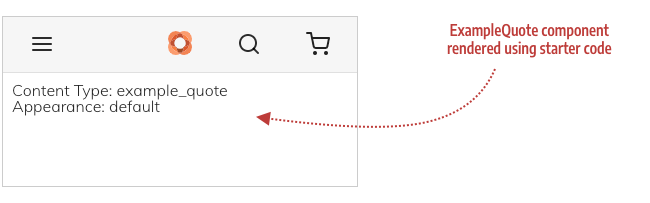
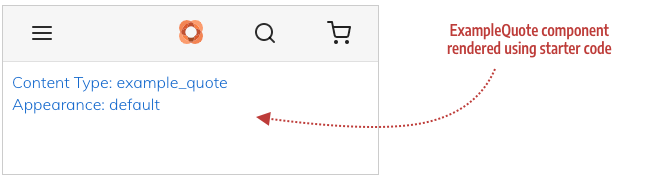
PB-36: [Docs] Creating custom Page Builder components
Changes to top nav and various diagrams and component alphabetizing

diff --git a/packages/venia-ui/lib/components/RichContent/PageBuilder/ContentTypes/ExampleQuote/exampleQuote.css b/packages/venia-ui/lib/components/RichContent/PageBuilder/ContentTypes/ExampleQuote/exampleQuote.css
@@ -1,3 +1,9 @@
+.testClass {
+    line-height: 1.4em;
+    font-size: 1em;
+    color: #0066cc;
+}
+
 .quote {
     display: block;
     font-size: 1.4em;

diff --git a/pwa-devdocs/src/pagebuilder/custom-components/setup-component/index.md b/pwa-devdocs/src/pagebuilder/custom-components/setup-component/index.md
@@ -2,22 +2,24 @@
 title: Set up component
 ---
 
+Setting up your component is about getting the essential component files in place so that your component is actively participating in the Page Builder component framework. After you create these files and wire them into the component framework, you can focus all your attention on developing each file to faithfully recreate your content type as a PWA component. The following steps highlight the tasks for setting up your component:
+
+![Component setup steps](SetupComponentSteps.svg)
+
+## Step 1: Create starter files
+
 The first thing you need to do within PWA Studio is create the directory and skeleton files needed for your component, as follows:
 
-- **configAggregator.js** (required) - Function you will implement to retrieve content and styling properties from your content type's master format HTML.
-- **myComponent.js** (required) - React component you will implement by populating properties that correspond to the original Page Builder content type. For our ExampleQuote, we use `exampleQuote.js`.
-- **myComponent.css** (optional but usually needed) - CSS styles that provide the addition styles needed to present your component as desired. For our ExampleQuote, we use `exampleQuote.css`.
+- **configAggregator.js** (required) - Function to retrieve content and styling properties from your content type's master format HTML.
+- **myComponent.js** (required) - React component for populating properties that correspond to the original Page Builder content type. For our ExampleQuote, we use `exampleQuote.js`.
+- **myComponent.css** (optional but usually needed) - CSS classes that provide addition styles needed to present your component as desired. For our ExampleQuote, we use `exampleQuote.css`.
 - **index.js** (required)  - Entry file needed to identify your component in PWA Studio.
-
-## Component location
 
 Currently, you need to add your content type's component, like `ExampleQuote`, to the `ContentTypes` directory, where the native Page Builder components are kept. This will change when we implement different rules for extending Page Builder components. But for now, add your custom content type components as shown here:
 
 ![Component file structure](PageBuilderFilesSetup.png)
 
-## Component starter code
-
-The purpose of the starter code is simply getting the component files in place so that your component is actively participating in the Page Builder component framework. After this is set up, you can focus all your energy on developing each file to create a fully functioning content type component.
+Starter code for the `ExampleQuote` component files is provided as follows.
 
 ### configAggregator.js
 
@@ -33,7 +35,7 @@ export default (node, props) => {
 
 ```css
 /* class for testing setup */
-.componentText {
+.testClass {
     line-height: 1.4em;
     font-size: 1em;
     color: #0066cc;
@@ -44,11 +46,12 @@ export default (node, props) => {
 
 ```jsx
 import React from 'react';
+import quoteClasses from './exampleQuote.css'
 
 // Component for testing setup
 const ExampleQuote = props => {
     return (
-        <div>
+        <div className={quoteClasses.testClass}>
             <div>Content Type: {props.contentType}</div>
             <div>Appearance: {props.appearance}</div>
         </div>
@@ -64,19 +67,19 @@ export default ExampleQuote;
 export { default } from './exampleQuote';
 ```
 
-## Component configuration
+## Step 2: Configure component
 
-Now it is time to connect your component files into the Page Builder component framework. The framework provides a static config object (in `config.js`) that acts as a kind of registry of content types supported within PWA Studio. To include support for your custom content type component, you'll need to add an entry to the `config.js`:
+ Configuring your component is about connecting your component to the Page Builder component framework. The framework provides a static config object (in `config.js`) that acts as a kind of registry of content types supported within PWA Studio. To include support for your custom content type component, you'll need to add an entry to the `config.js`:
 
 ![Component config file](PageBuilderConfigFile.png)
 
-Open the config.js file and `import` your configAggregator. For our ExampleQuote:
+Open the `config.js` file and `import` your `configAggregator`. The import statement for our ExampleQuote is shown here:
 
 ```js
 import exampleQuoteConfigAggregator from './ContentTypes/ExampleQuote/configAggregator';
 ```
 
-Add an entry that references your `configAggregator` and `component`, using the name of your content type as the `key`. For our `ExampleQuote`, the name of the Page Builder Quote content type is `example_quote`, so the entry for our Quote component (`ExampleQuote`) in the config file should look like this:
+Add an entry that references your `configAggregator` and `component`, using the name of your content type as the `key`. For our `ExampleQuote`, the name of the Quote content type is `example_quote`, so the entry for our Quote component (`ExampleQuote`) in the config file looks like this:
 
 ```js
 example_quote: {
@@ -99,7 +102,7 @@ component: React.lazy(() => import('./ContentTypes/ExampleQuote'))
 
 ## Test the component setup
 
-After adding these files and hooking them up to the framework through the configuration file (config.js), your skeleton component should appear on the Venia home page, looking something like this:
+After adding these files and hooking them up to the framework through the configuration file (`config.js`), your skeleton component should appear on the Venia home page, looking something like this:
 
 ![ExampleQuote component rendered with starter code](ConfigureComponentOutput.png)
 

diff --git a/pwa-devdocs/src/pagebuilder/custom-components/add-aggregator/index.md b/pwa-devdocs/src/pagebuilder/custom-components/add-aggregator/index.md
@@ -35,20 +35,18 @@ The interface for a `configAggregator` is:
 (node: HTMLElement, props: {contentType: string, appearance: string}) => {[key: string]: any}
 ```
 
-### Purpose
-
 To recap, the purpose of your component's aggregator is to collect (aggregate) properties from your content type's HTML and return a property object for use in your component. The object you return should contain all the text, html, inline styles, and classes you need to faithfully reproduce your content type as a component in PWA Studio.
 
-Let's look at our Quote content HTML in detail (color coded for easier analysis) to determine the properties we want to return for our component:
+Let's look at our Quote content HTML in detail (color coded for easier analysis) to determine the properties we want to pass to our component:
 
 ![Master format HTML](MasterFormatHTML.svg)
 
 Here's what we think we need for our component:
 
--   The inline **styles** from the main node
--   The **text** content from the `<blockquote>` and `author` nodes
--   The **HTML** content from the `description` node
--   The CSS **classes** from all three child nodes (`<blockquote>`, `author`, and `description`)
+-  The inline **styles** from the main node
+-  The **text** content from the `<blockquote>` and `author` nodes
+-  The **HTML** content from the `description` node
+-  The CSS **classes** from all three child nodes (`<blockquote>`, `author`, and `description`)
 
 To retrieve these properties, you'll want to use a combination of [HTMLElement DOM properties] along with our [utility functions], as shown next in the example.
 

diff --git a/pwa-devdocs/src/pagebuilder/custom-components/overview/index.md b/pwa-devdocs/src/pagebuilder/custom-components/overview/index.md
@@ -14,10 +14,10 @@ The topics for these steps show you how to create the code that retrieves proper
 
 Before you start creating your custom content type component in PWA Studio, make sure you have met the following prerequisites:
 
--   Your Magento instance should have a custom content type added and saved to the **home** page in the Admin. Currently, the `home` page is the only page you can render Page Builder content within PWA Studio.
--   Your Magento instance should render this content type on the home page of your storefront.
+- Your Magento instance should have a custom content type added and saved to the **home** page in the Admin. Currently, the `home` page is the only page you can render Page Builder content within PWA Studio.
+- Your Magento instance should render this content type on the home page of your storefront.
 
-{: .bs-callout .bs-callout-info}
+{: .bs-callout-info}
 We assume you already have the PWA Studio set up and running in your development environment. If you do not, [use these instructions] to do that now.
 
 ## Using the Quote content type

diff --git a/pwa-devdocs/src/pagebuilder/custom-components/debugging/index.md b/pwa-devdocs/src/pagebuilder/custom-components/debugging/index.md
@@ -2,7 +2,7 @@
 title: Debugging tips
 ---
 
-If you haven't yet modified the config object and setup the references you'll see the following console warning in your console to inform you the component is missing:
+If you haven't yet modified the config object and setup the references you'll see the following console warning, telling you the component is missing:
 
 ```text
 parseStorageHtml.js?4091:67 No config aggregator defined for content type X, this content type won't be rendered.

diff --git a/pwa-devdocs/src/pagebuilder/custom-components/add-component/index.md b/pwa-devdocs/src/pagebuilder/custom-components/add-component/index.md
@@ -29,8 +29,7 @@ const ExampleQuote = props => {
         paddingTop,
         paddingRight,
         paddingBottom,
-        paddingLeft,
-        cssClasses = []
+        paddingLeft
     } = props;
 ```
 
